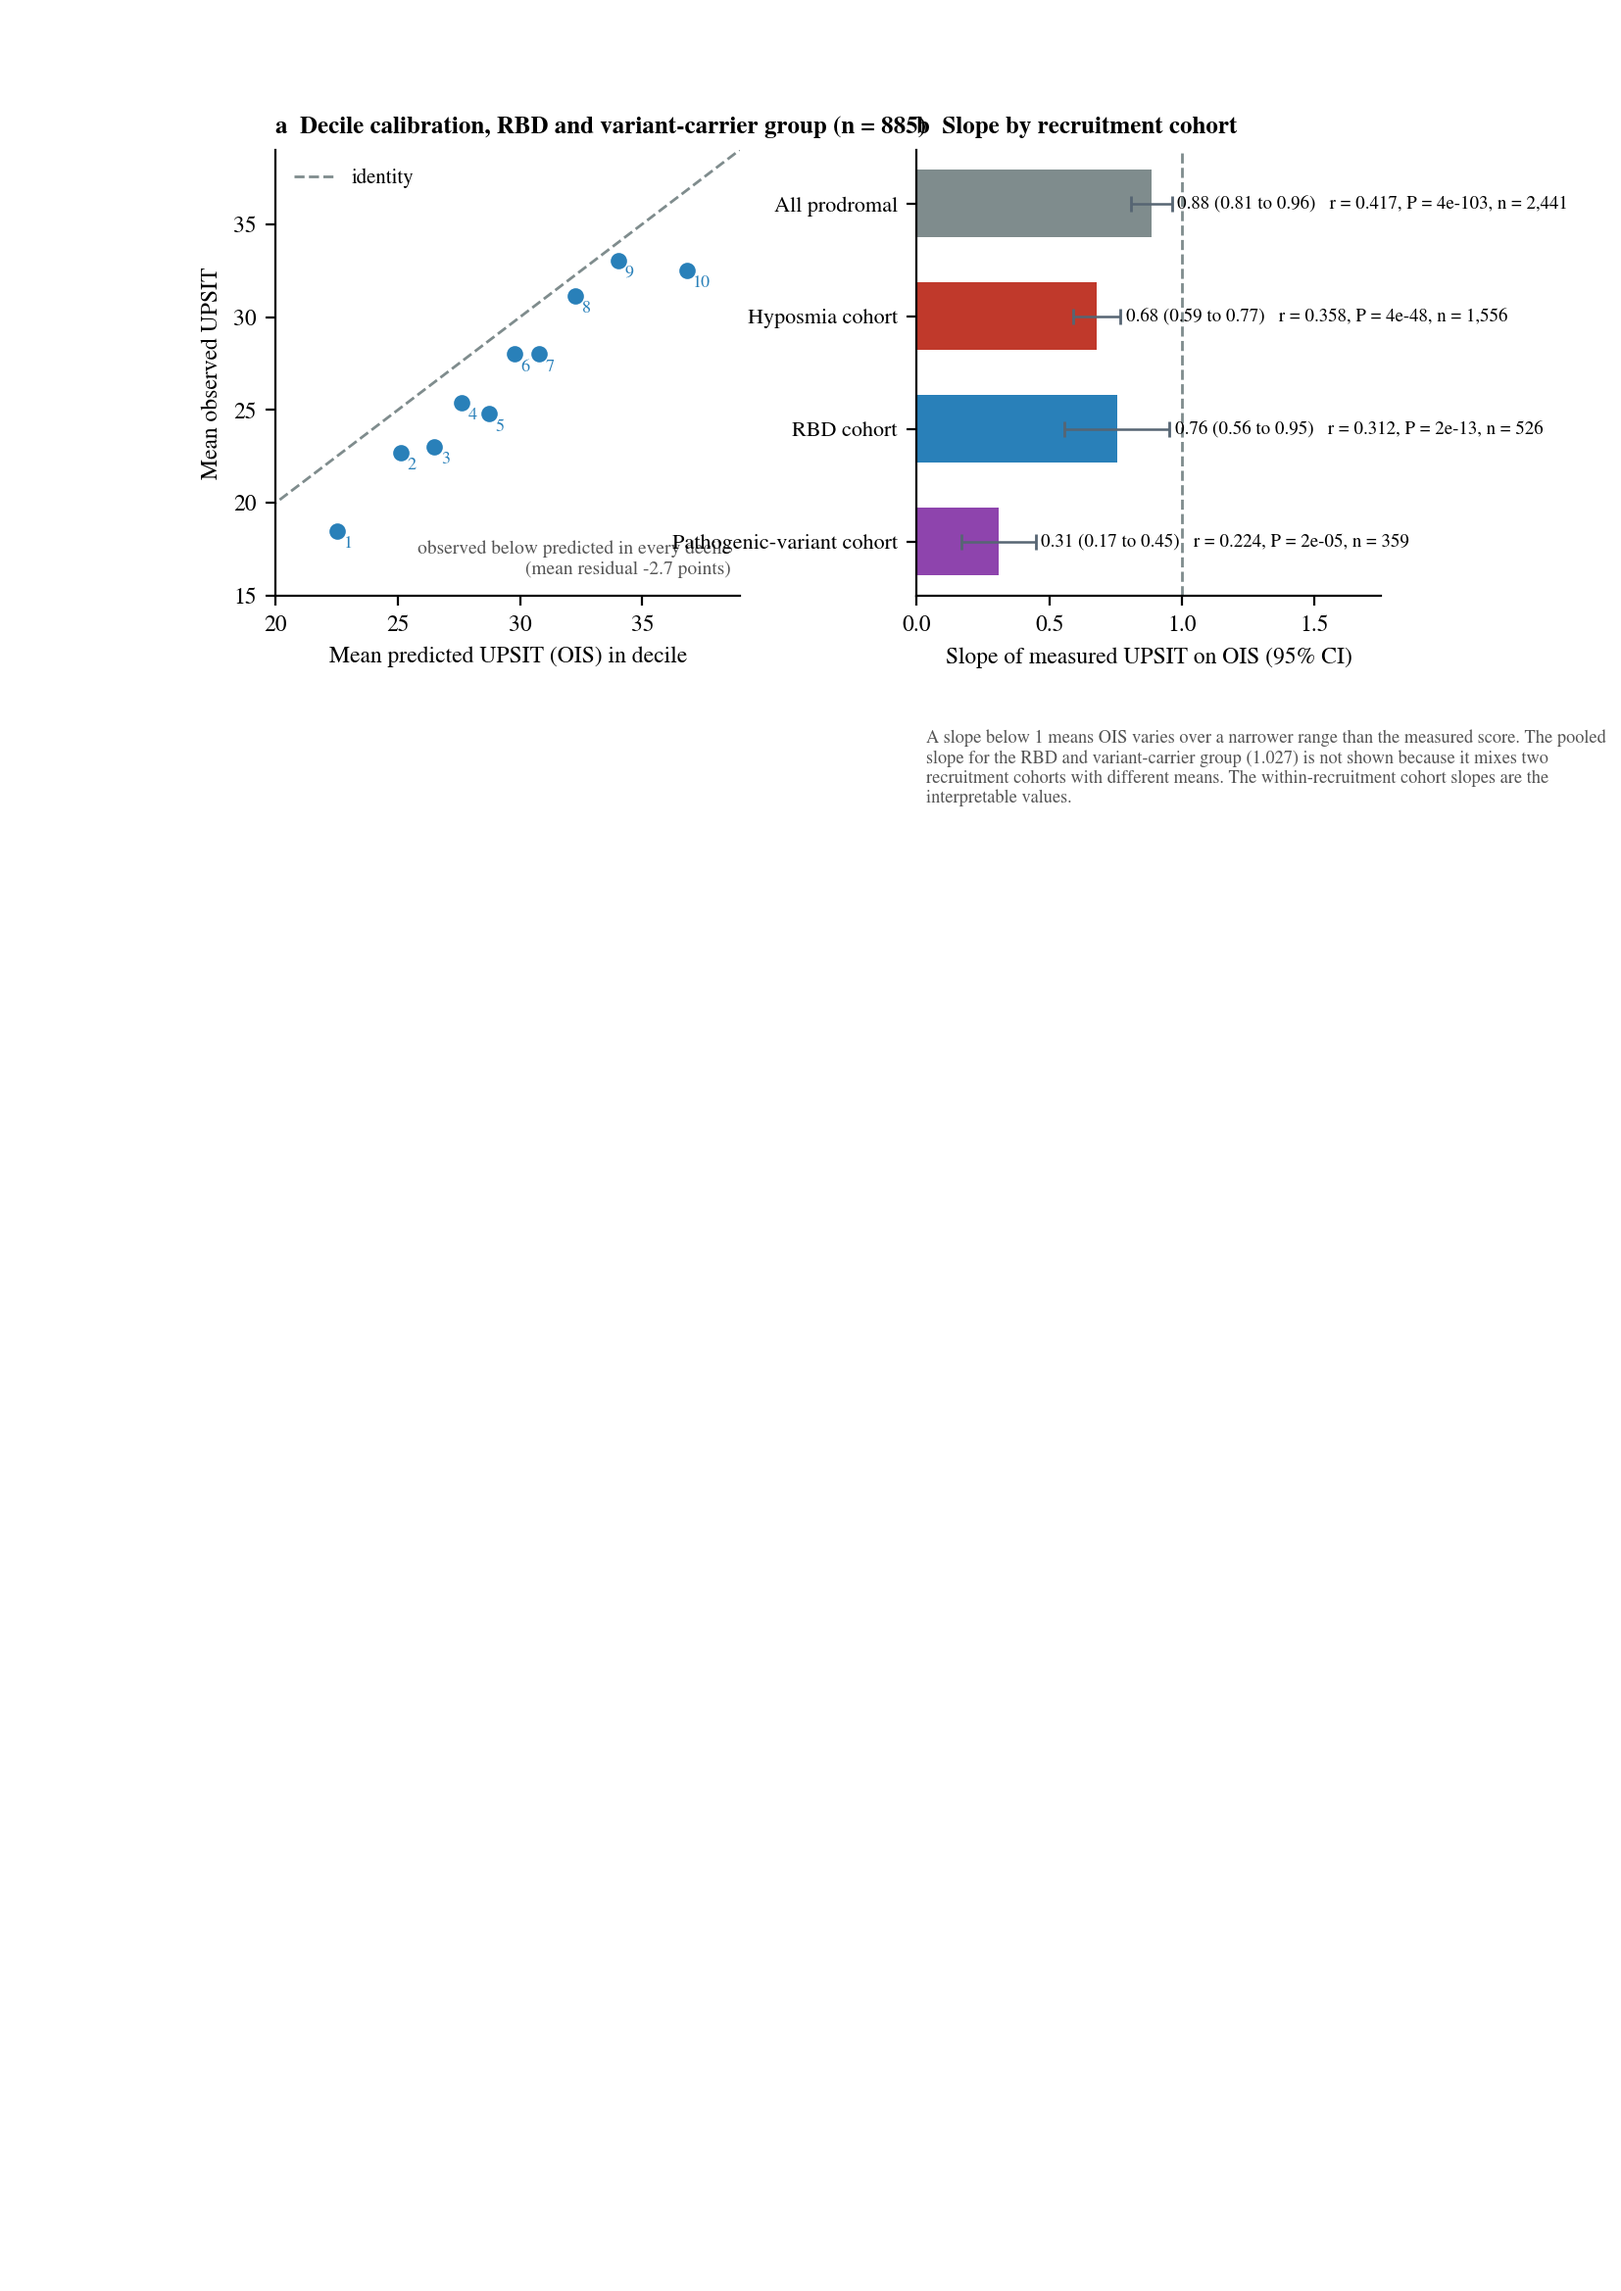
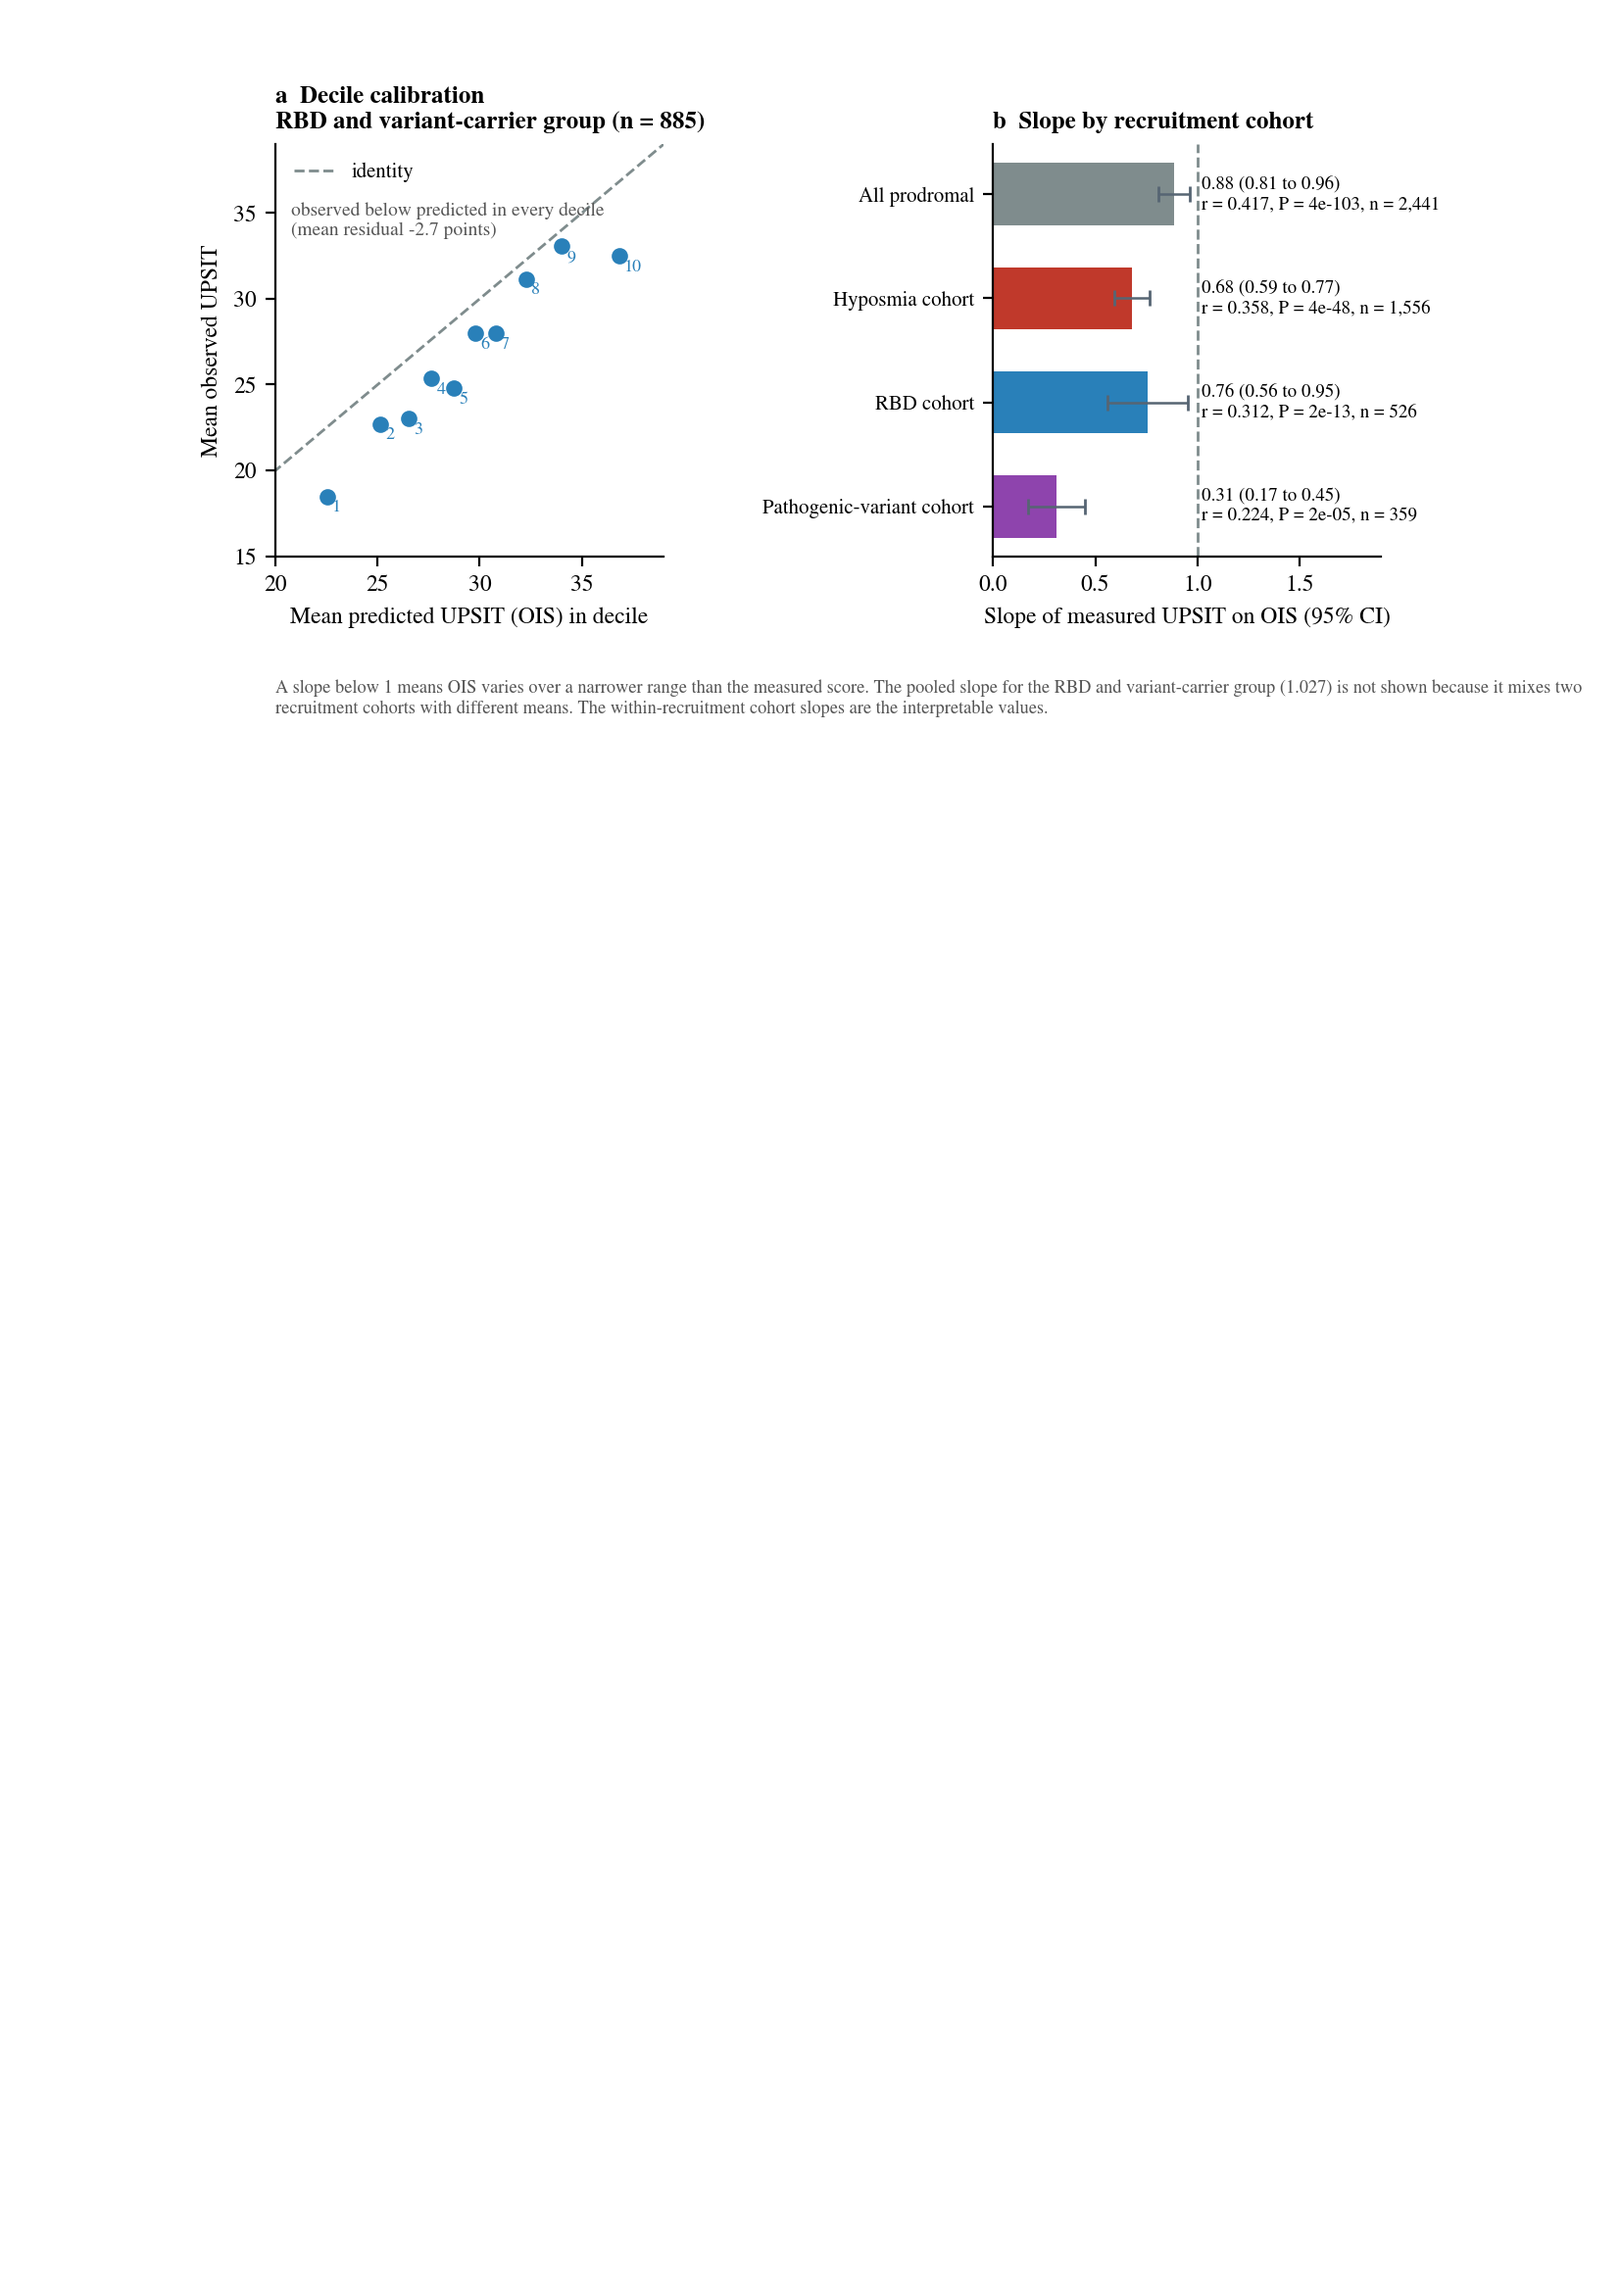
Supplementary figures: panel-letter case option

diff --git a/code/10_supplementary.py b/code/10_supplementary.py
@@ -107,6 +107,11 @@ def setup_fonts():
         mpl.rcParams['font.serif'] = ['Times', 'Times New Roman', 'Nimbus Roman', 'DejaVu Serif']
 TEAL, RED, GREY, DARK, ORANGE, BLUE = '#16A085', '#C0392B', '#7F8C8D', '#2C3E50', '#E67E22', '#2980B9'
 
+PANEL_CASE = os.environ.get('PANEL_CASE', 'lower')     # 'upper' for journals that letter panels A, B
+def PL(s):
+    """Panel letter at the start of an in-figure title ('a  Decile calibration'), uppercased when required."""
+    return (s[0].upper() + s[1:]) if PANEL_CASE == 'upper' else s
+
 def outdir():
     # 图件一律只出英文(2026-09-10 用户定):投稿用英文图,中文稿沿用同一套图,
     # 避免同一张图维护两份、也避免中文 PDF 的字体坑。
